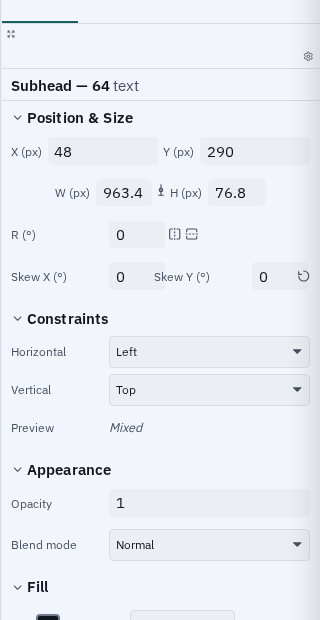
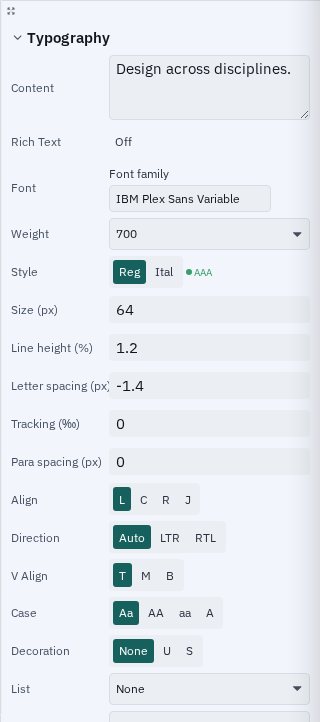
fix(screenshots): correct typography scenes, add effects scene
typography-panel showed the wrong panel
The crop captured Position & Size, Constraints and Fill while its alt text
promised "font family, weight, size, line height and letter spacing" — none of
which were in frame. Typography is order 300 in the section registry, so it
renders well below the fold. The scene now scrolls that section to the top of
the inspector and asserts Font, Weight, Size, Line height and Letter spacing
are actually visible, so the alt text cannot drift from the pixels again.

typography canvas was covered by its own selection
The floating quick bar anchors under the selected node and sat on top of the
body paragraph the scene exists to show. The scene now selects only to drive
the fit, then clicks empty canvas to drop the selection — Escape exits the
tool but keeps the selection, and the document's own corner is not empty
space, so both of those leave the bar up.

New effects scene
Effects had no imagery despite being a headline capability. The scene adds a
real drop shadow through the inspector and scales its offset and blur to the
artwork. Selection happens before the fit, not after: selecting a layer zooms
to it, so the reverse order framed the disc at 364% with the shadow off
screen. The shadow stays subtle on canvas (the Disc is Multiply at 85%, the
shadow 0.3 opacity), so the alt text describes the controls rather than
claiming a visible result.

Also documents which feature pages still have no scene and why — background
[…]

diff --git a/scripts/screenshots/README.md b/scripts/screenshots/README.md
@@ -75,12 +75,36 @@ modes and a real type hierarchy.
 | `export` | light | full | Advanced export dialog: destination, filename template, formats |
 | `print-production` | light | full | Bleed guides on canvas and the Page Print inspector |
 | `vectorize` | light | full | Vectorize dialog in colour mode on an imported photo |
+| `effects` | light | full | Effects inspector with a real drop shadow added to a shape |
 | `image-tools` | light | inspectorTall | Enhance, Vectorize, Object Selection, Background Removal, Depth Blur |
 | `workspaces` | light | full | Print workspace active — Masters, Pages, and Spreads panels |
 
 Detail scenes are cropped **at capture time** (`clip`), because the website
 shows them at roughly a third of the page width where a scaled-down full
 window is an unreadable smear.
+
+### Feature pages still without a scene
+
+These are not oversights. Each one's result depends on a model that is
+downloaded on demand, so a capture run would either block on a network fetch
+or screenshot a "download this model" prompt — neither of which shows the
+feature:
+
+| Feature page | Blocked on |
+|---|---|
+| `background-removal` | segmentation model (`ModelDownloadDialog`) |
+| `object-selection` | segmentation model |
+| `depth-aware-effects` | depth model (`ensureDepthModelDownloaded`) |
+| `asset-search` | text/image encoder for the embedding index |
+| `asset-similarity` | image encoder for the embedding index |
+
+The `image-tools` scene covers the **entry points** for the first three — the
+inspector sections a user opens to reach them — which is capturable without a
+model and honest about what it shows. `local-first` has no single panel that
+depicts it; its evidence is the absence of an account, not a screen.
+
+Capturing the model-dependent results properly needs a fixture strategy for
+pre-seeded model assets, so a run stays offline and deterministic.
 
 `SCENES` in `product.mjs` is the source of truth for what exists. A newly
 added scene seeds its own manifest entry, and an entry whose scene has been

diff --git a/README.md b/README.md
@@ -102,6 +102,16 @@ demo documents — never hand-edited. See
 <p align="center">Export to SVG, PNG, WebP, or PDF</p>
 </td>
 </tr>
+<tr>
+<td width="50%">
+<img src="docs/screenshots/product/effects-light.png" alt="The Varve Effects inspector with a drop shadow added to the selected shape, showing offset, blur, spread, opacity and blend-mode controls" width="100%">
+<p align="center">Stackable, non-destructive effects</p>
+</td>
+<td width="50%">
+<img src="docs/screenshots/product/typography-panel-light.png" alt="The Varve typography inspector showing font family, weight, style, size, line height and letter spacing for the selected text" width="100%">
+<p align="center">Type controls for the selected text</p>
+</td>
+</tr>
 </table>
 
 ## Download
